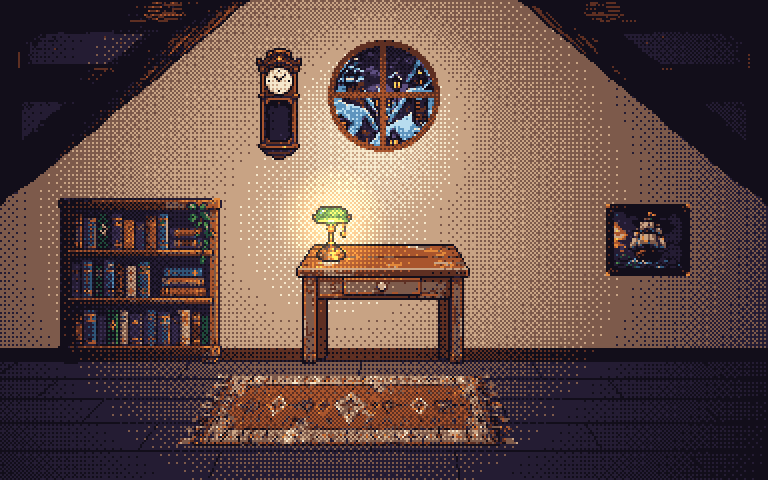
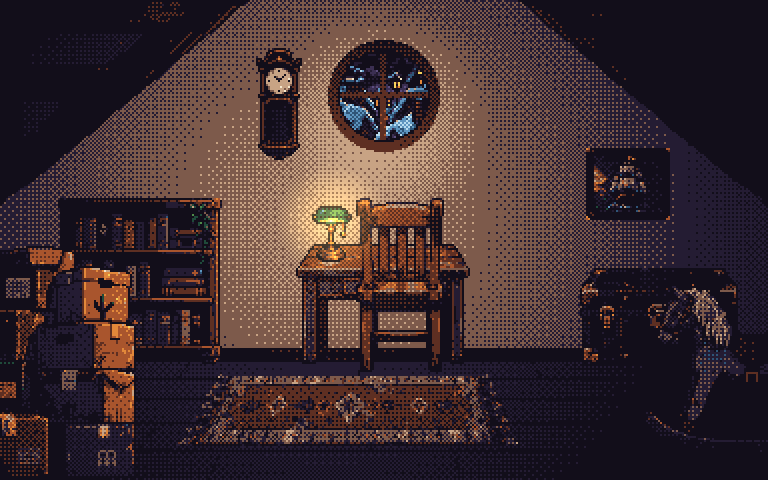
Furnish the attic study with a chair, trunk, boxes and a rocking horse
Tuck a chair into the desk, hang the ship painting higher, thicken the
round window's frame, add a steamer trunk, stacked boxes and a rocking
horse cut by the canvas edge, let dust drift in the lamp light, and
darken the ambient light from the Tuner.

diff --git a/scenes/attic-study-snowy-night-oxnx/index.html b/scenes/attic-study-snowy-night-oxnx/index.html
@@ -7,7 +7,7 @@
 <link rel="icon" href="data:,">
 <meta property="og:type" content="website">
 <meta property="og:title" content="Attic Study, Snowy Night">
-<meta property="og:description" content="A small attic study late at night, tucked under chunky wooden rafters. A green banker&#39;s lamp throws a warm pool over a plain desk beneath a round gable window, where snow falls past the village rooftops, while a pendulum clock swings and ticks on the wall.">
+<meta property="og:description" content="A small attic study late at night, tucked under chunky wooden rafters among old boxes, a steamer trunk and a worn rocking horse. A green banker&#39;s lamp throws a warm pool over a desk beneath a round gable window, where snow falls past the village rooftops, while a pendulum clock swings and ticks on the wall.">
 <meta property="og:url" content="https://joeuk89.github.io/pixel-art/scenes/attic-study-snowy-night-oxnx/">
 <meta property="og:image" content="https://joeuk89.github.io/pixel-art/scenes/attic-study-snowy-night-oxnx/poster-og.png">
 <meta property="og:image:width" content="768">
